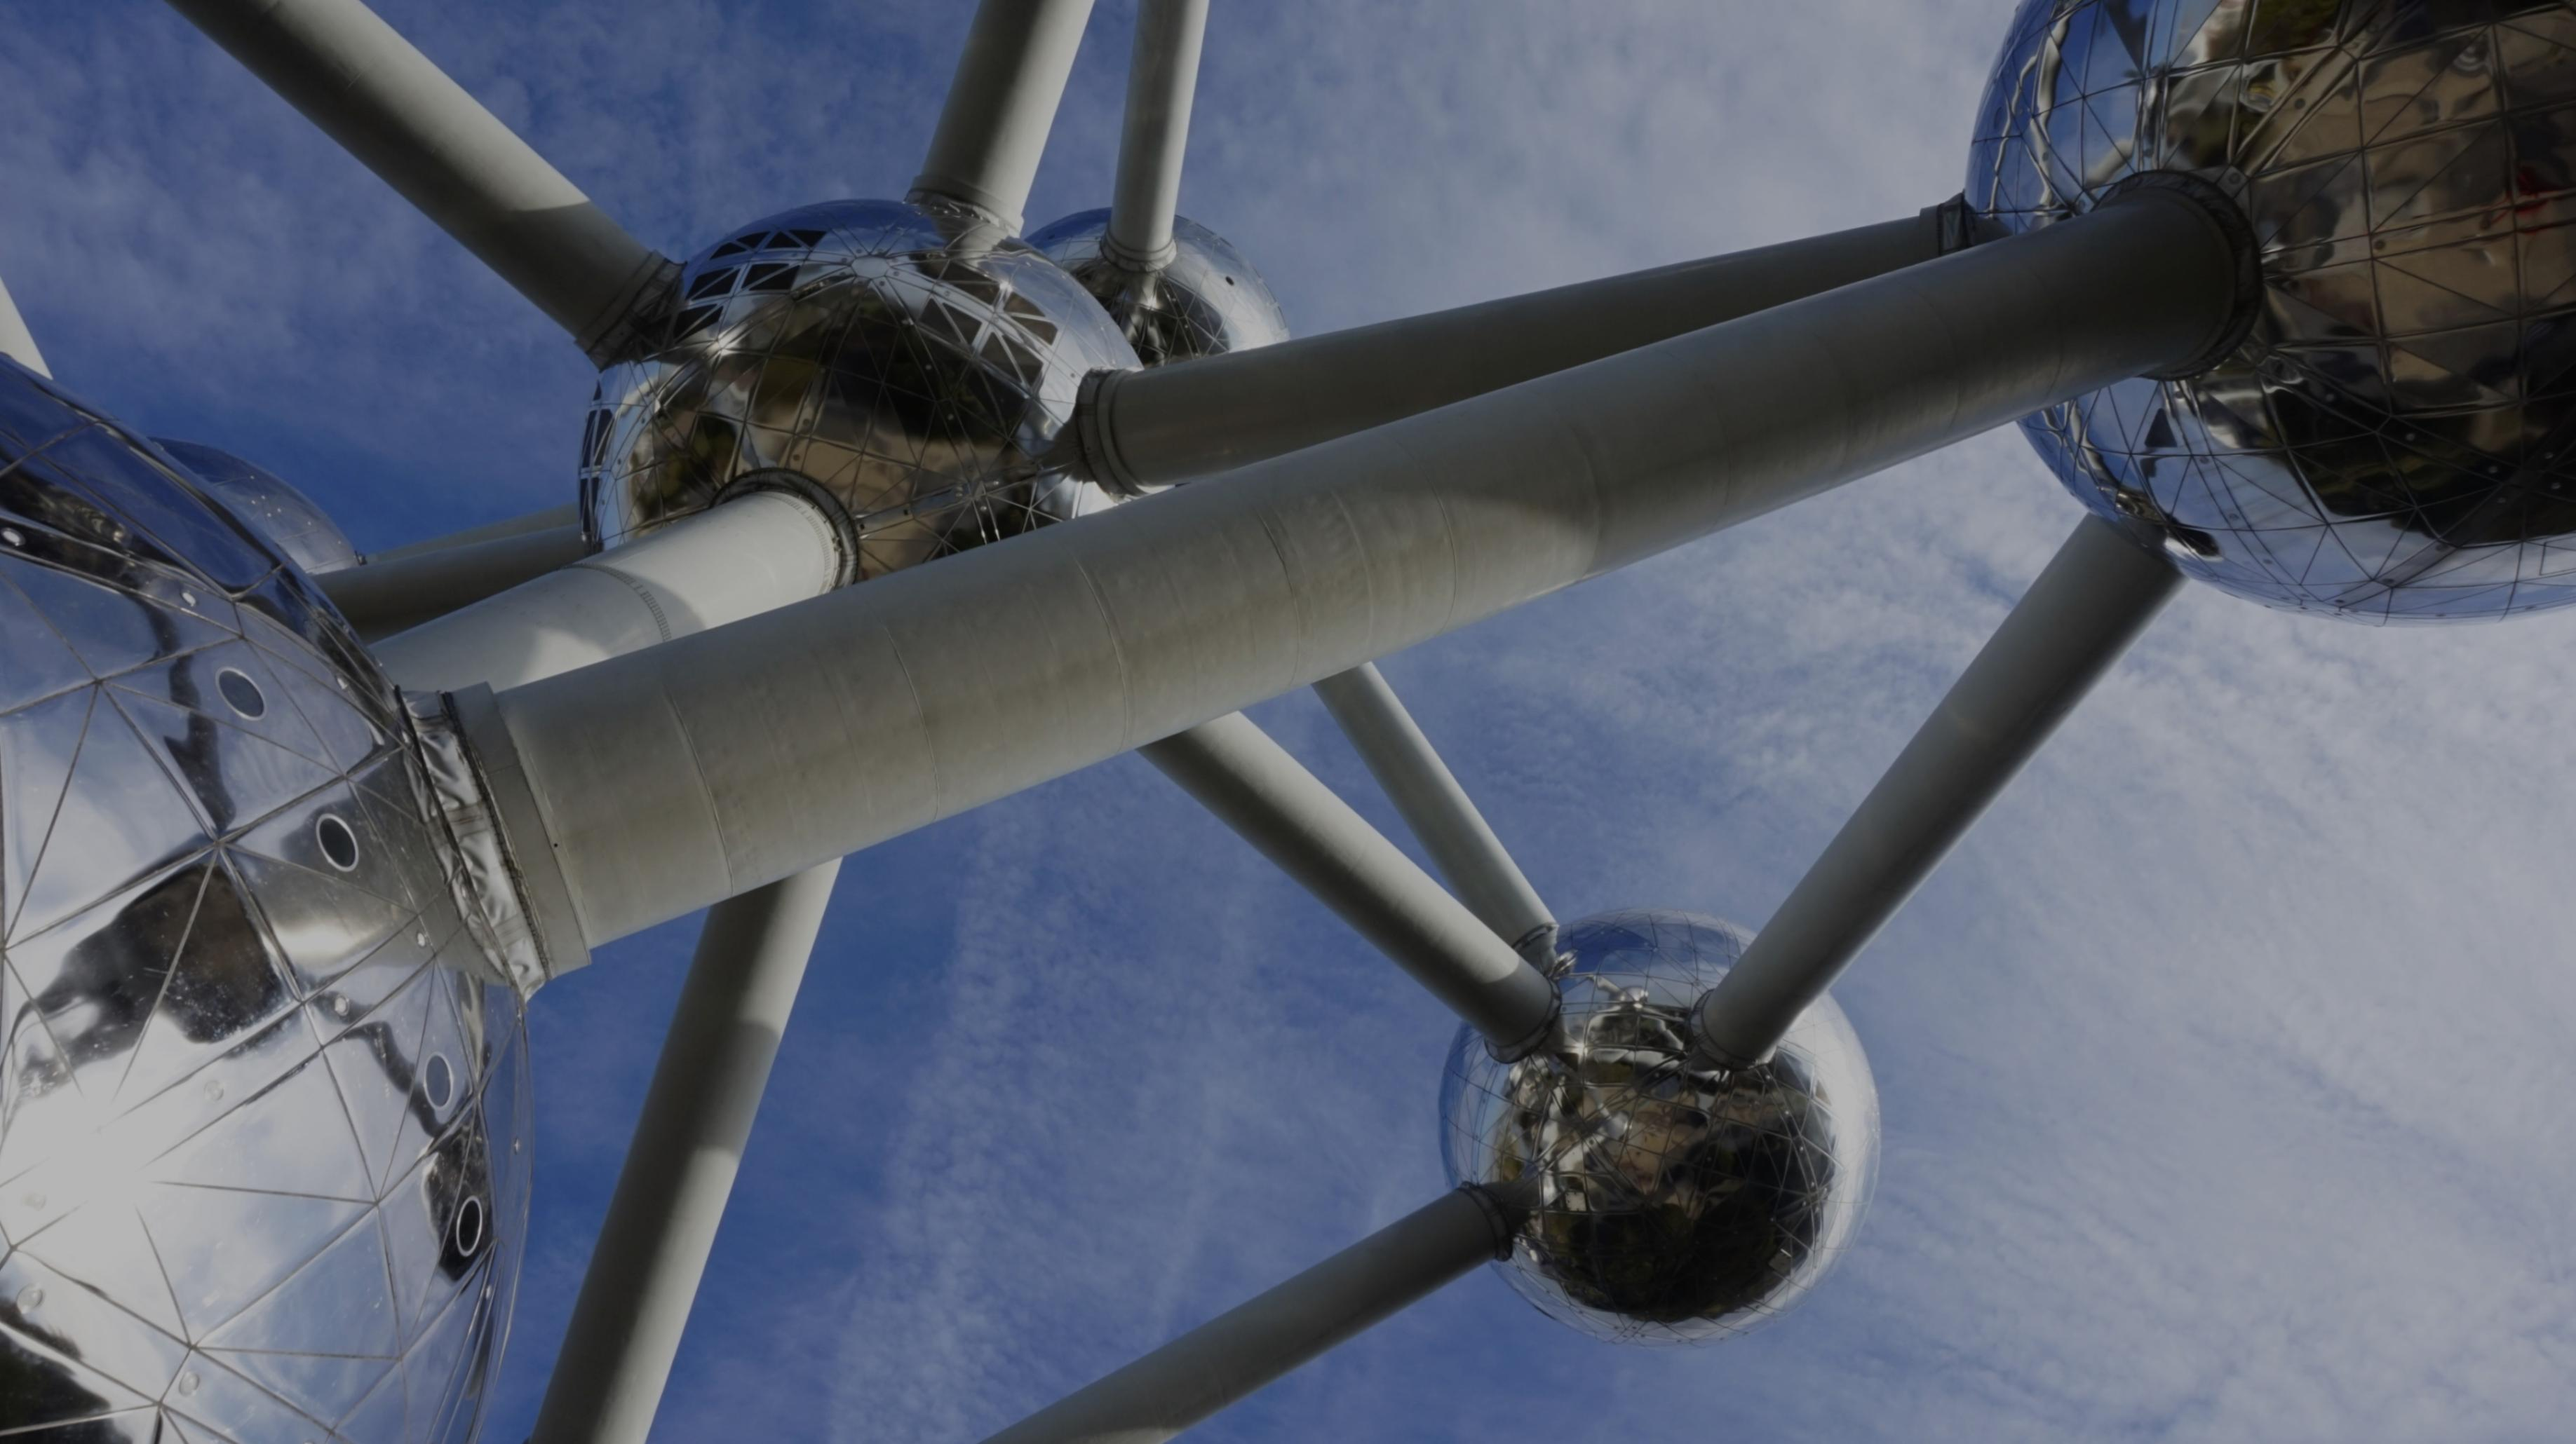
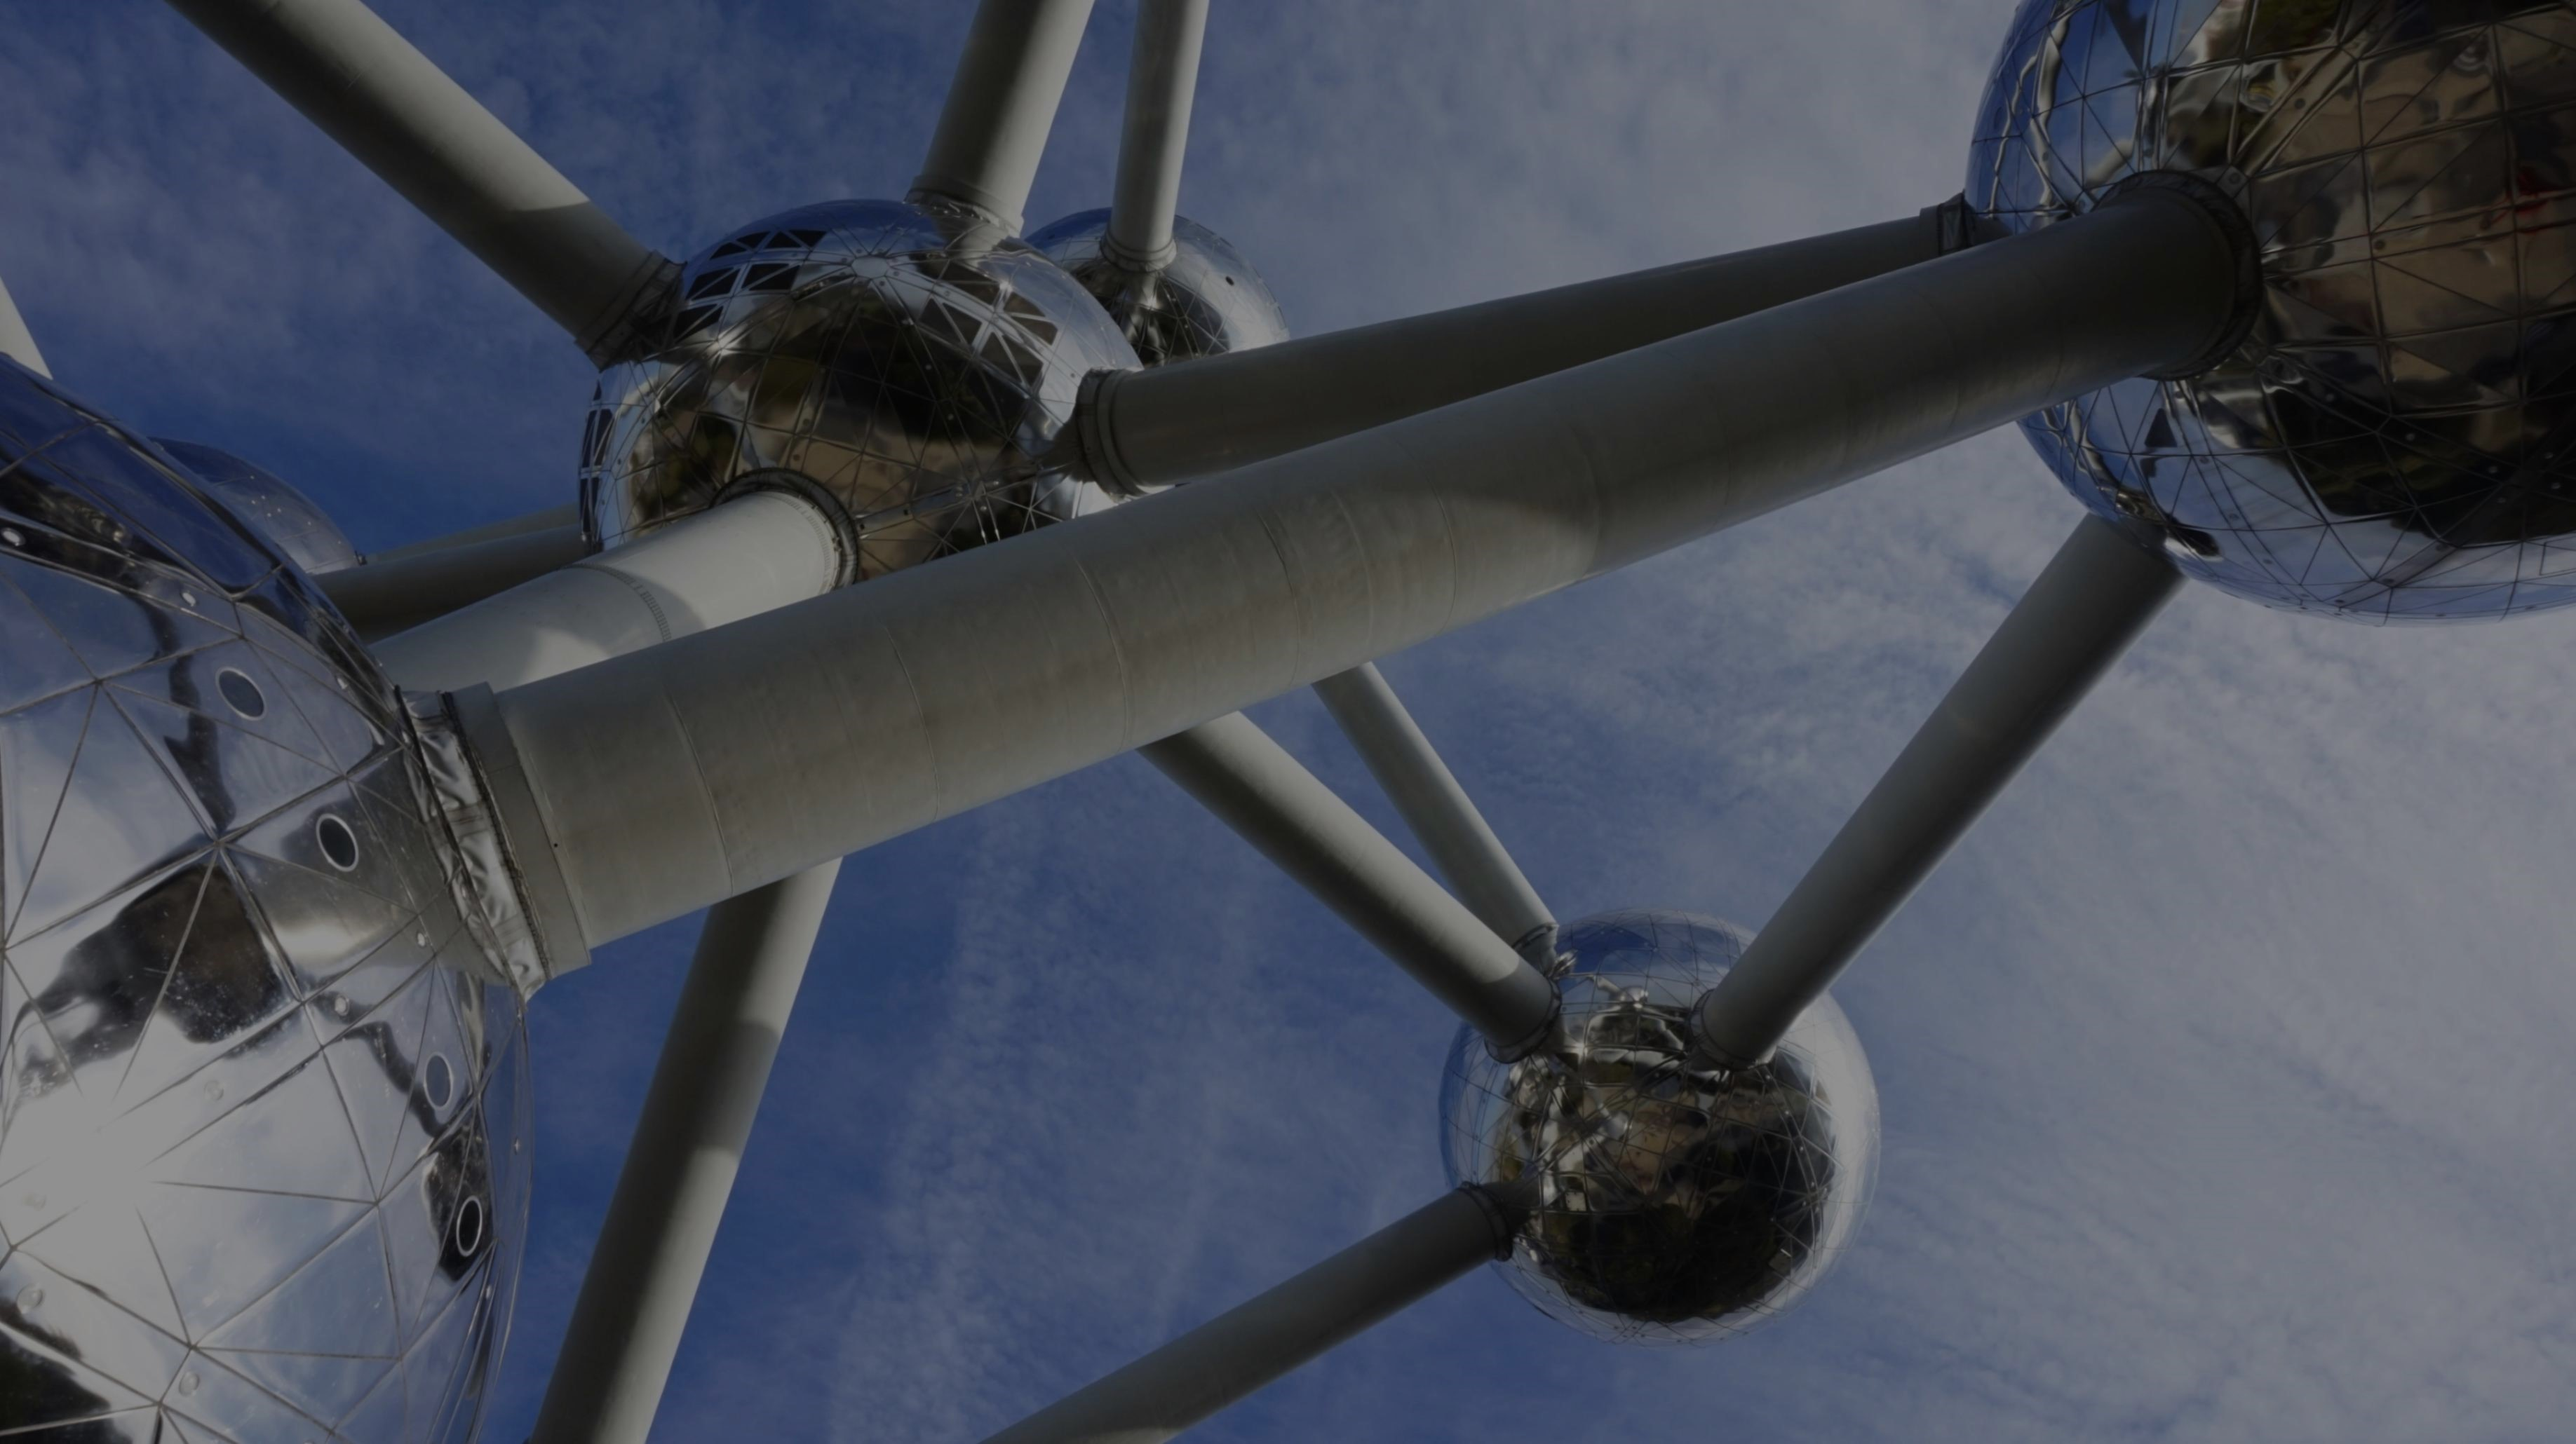
visual edits

diff --git a/navigation.html b/navigation.html
@@ -16,7 +16,7 @@
 
     <!-- Navigation Bar -->
 
-    <nav class="navbar fixed-top navbar-expand-lg bg-light" style="opacity: 1;">
+    <nav class="navbar navbar-expand-lg bg-light" style="opacity: 1;">
         <div class="container-fluid">
             <a class="navbar-brand" href="index.html">
                 <img src="images/logo.jpg" alt="agence belge logo" height="36">
@@ -28,16 +28,13 @@
             <div class="collapse navbar-collapse" id="navbarSupportedContent">
                 <ul class="navbar-nav me-auto mb-2 mb-lg-0">
                     <li class="nav-item">
-                        <a class="nav-link" href="index.html">Home</a>
+                        <a class="nav-link" style="font-weight: bolder;" href="history.html">ABOUT</a>
                     </li>
                     <li class="nav-item">
-                        <a class="nav-link" href="history.html">About</a>
+                        <a class="nav-link active" style="font-weight: bolder;" href="navigation.html">GETTING THERE</a>
                     </li>
                     <li class="nav-item">
-                        <a class="nav-link active" href="navigation.html">Getting There</a>
-                    </li>
-                    <li class="nav-item">
-                        <a class="nav-link" href="reviews.html">Reviews</a>
+                        <a class="nav-link" style="font-weight: bolder;" href="reviews.html">REVIEWS</a>
                     </li>                                                          
                 
             </div>
@@ -48,14 +45,14 @@
 
     <div class='lead text-center main_image navigationIMG'>
         <div class="col text_part">
-            <h1 class="text-white">Getting There</h1>
+            <h1 class="display-2 text-white" style="font-weight: normal;">GETTING THERE</h1>
         </div>             
     </div> 
 
     <!-- Map -->
 
     <div class="container-md text-center navPage mt-5">
-        <h2>Map</h2>
+        <h2>MAP</h2>
         <iframe class="mt-5" src="https://www.google.com/maps/embed?pb=!1m18!1m12!1m3!1d2516.558455770455!2d4.339360651214357!3d50.894882063022116!2m3!1f0!2f0!3f0!3m2!1i1024!2i768!4f13.1!3m3!1m2!1s0x47c3c3ac00000001%3A0x5293071d68a63709!2sAtomium!5e0!3m2!1sen!2sus!4v1663882297602!5m2!1sen!2sus" width="100%" height="400px" style="border:0;" allowfullscreen="" loading="lazy" referrerpolicy="no-referrer-when-downgrade"></iframe>
     </div>
 

diff --git a/index.html b/index.html
@@ -19,7 +19,7 @@
 
             <!-- Navigation Bar -->
 
-            <nav class="navbar fixed-top navbar-expand-lg bg-light" style="opacity: .9;">
+            <nav class="navbar fixed-top navbar-expand-lg bg-light" style="opacity: .8;">
                 <div class="container-fluid">
                     <a class="navbar-brand" href="#">
                         <img src="images/logo.jpg" alt="agence belge logo" height="36">
@@ -49,8 +49,8 @@
             <div class="mypage">  
             <div class='section text-center main_image vh-100 upwardIMG'>
                 <div class="col text_part">
-                    <h1 class="text-white">DISCOVER THE ATOMIUM</h1>
-                    <button class="btn btn-light mt-4">Learn more</button>  
+                    <h1 class="display-2 text-white" style="font-weight: normal;">DISCOVER THE ATOMIUM</h1>
+                    <button class="btn btn-light mt-4" style="opacity: .6;">Learn more</button>  
                 </div>             
             </div> 
             <div class='section row_2_image_left fogIMG'>               

diff --git a/reviews.html b/reviews.html
@@ -19,7 +19,7 @@
     
                 <!-- Navigation Bar -->
     
-                <nav class="navbar fixed-top navbar-expand-lg bg-light" style="opacity: 1;">
+                <nav class="navbar navbar-expand-lg bg-light" style="opacity: 1;">
                     <div class="container-fluid">
                         <a class="navbar-brand" href="#">
                             <img src="images/logo.jpg" alt="agence belge logo" height="36">
@@ -53,7 +53,7 @@
                 <div class="mypage">  
                     <div class='lead text-center main_image farawayIMG'>
                         <div class="col text_part">
-                            <h1 class="text-white">Reviews</h1>
+                            <h1 class="display-2 text-white" style="font-weight: normal;">REVIEWS</h1>
                         </div>             
                     </div> 
                         

diff --git a/history.html b/history.html
@@ -16,7 +16,7 @@
 
     <!-- Navigation Bar -->
 
-    <nav class="navbar fixed-top navbar-expand-lg bg-light" style="opacity: 1;">
+    <nav class="navbar navbar-expand-lg bg-light" style="opacity: 1;">
         <div class="container-fluid">
             <a class="navbar-brand" href="#">
                 <img src="images/logo.jpg" alt="agence belge logo" height="36">
@@ -48,7 +48,7 @@
 
     <div class='lead text-center main_image aboutIMG'>
         <div class="col text_part">
-            <h1 class="text-white">About the Atomium</h1>
+            <h1 class="display-2 text-white" style="font-weight: normal;">THE ATOMIUM</h1>
         </div>             
     </div> 
     
